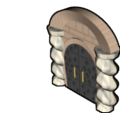
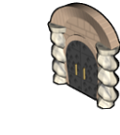
Nuevas imagenes para las puertas y panel publicitario

Changed region(s): [[0.375, 0.0, 1.0, 0.8296], [0.675, 0.5037, 0.725, 0.6222], [0.6, 0.4741, 0.65, 0.563]]

diff --git a/gg/GG/utils.py b/gg/GG/utils.py
@@ -65,8 +65,7 @@ ANIM_WALKING_TIME = int(TICK_DELAY*ANIM_WALKING_COUNT*100)
 TEXT_COLOR = {"black": 0, "blue": 1}
 
 # Player headings.
-HEADING = {0: "none", 1: "up", 2: "down", 3: "left", 4: "right",
-           5: "topleft", 6: "bottomright", 7: "bottomleft", 8: "topright"}
+HEADING = {0: None, 1: "up", 2: "down", 3: "left", 4: "right", 5: "topleft", 6: "bottomright", 7: "bottomleft", 8: "topright"}
 # Player states.
 STATE = {1: "standing", 2: "walking", 3: "standing_carrying", 4: "walking_carrying", 5: "standing_sleeping"}
 
@@ -259,36 +258,57 @@ RIVERS = ["rioCurvaDchDown.png","rioCurvaDchUp.png","rioCurvaIzqDown.png","rioCu
 
 DOOR_CORINTHIAN_UP = os.path.join(FURNITURE_PATH, "puertaCorintiaUp.png")
 DOOR_CORINTHIAN_LEFT = os.path.join(FURNITURE_PATH, "puertaCorintiaLeft.png")
+DOOR_CORINTHIAN_DOWN = os.path.join(FURNITURE_PATH, "puertaCorintiaDown.png")
+DOOR_CORINTHIAN_RIGHT = os.path.join(FURNITURE_PATH, "puertaCorintiaRight.png")
 
 DOOR_DORIC_UP = os.path.join(FURNITURE_PATH, "puertaDoricaUp.png")
 DOOR_DORIC_LEFT = os.path.join(FURNITURE_PATH, "puertaDoricaLeft.png")
+DOOR_DORIC_DOWN = os.path.join(FURNITURE_PATH, "puertaDoricaDown.png")
+DOOR_DORIC_RIGHT = os.path.join(FURNITURE_PATH, "puertaDoricaRight.png")
 
 DOOR_IONIAN_UP = os.path.join(FURNITURE_PATH, "puertaJonicaUp.png")
 DOOR_IONIAN_LEFT = os.path.join(FURNITURE_PATH, "puertaJonicaLeft.png")
+DOOR_IONIAN_DOWN = os.path.join(FURNITURE_PATH, "puertaJonicaDown.png")
+DOOR_IONIAN_RIGHT = os.path.join(FURNITURE_PATH, "puertaJonicaRight.png")
 
 DOOR_SALOMONIC_UP = os.path.join(FURNITURE_PATH, "puertaSalomonicaUp.png")
 DOOR_SALOMINIC_LEFT = os.path.join(FURNITURE_PATH, "puertaSalomonicaLeft.png")
+DOOR_SALOMINIC_DOWN = os.path.join(FURNITURE_PATH, "puertaSalomonicaDown.png")
+DOOR_SALOMINIC_RIGHT = os.path.join(FURNITURE_PATH, "puertaSalomonicaRight.png")
 
 DOOR_WALL_UP = os.path.join(FURNITURE_PATH, "puertaMuroUp.png")
 DOOR_WALL_LEFT = os.path.join(FURNITURE_PATH, "puertaMuroLeft.png")
+DOOR_WALL_DOWN = os.path.join(FURNITURE_PATH, "puertaMuroDown.png")
+DOOR_WALL_RIGHT = os.path.join(FURNITURE_PATH, "puertaMuroRight.png")
 
 DOOR_ROAD_UP = os.path.join(FURNITURE_PATH, "puertaCarreteraUp.png")
 DOOR_ROAD_LEFT = os.path.join(FURNITURE_PATH, "puertaCarreteraLeft.png")
+DOOR_ROAD_DOWN = os.path.join(FURNITURE_PATH, "puertaCarreteraDown.png")
+DOOR_ROAD_RIGHT = os.path.join(FURNITURE_PATH, "puertaCarreteraRight.png")
 
 DOOR_FENCE_UP = os.path.join(FURNITURE_PATH, "puertaVallaUp.png")
 DOOR_FENCE_LEFT = os.path.join(FURNITURE_PATH, "puertaVallaLeft.png")
+DOOR_FENCE_DOWN = os.path.join(FURNITURE_PATH, "puertaVallaDown.png")
+DOOR_FENCE_RIGHT = os.path.join(FURNITURE_PATH, "puertaVallaRight.png")
 
 DOOR_DOWN = os.path.join(FURNITURE_PATH, "downArrow.png")
 DOOR_UP = os.path.join(FURNITURE_PATH, "upArrow.png")
 DOOR_LEFT = os.path.join(FURNITURE_PATH, "leftArrow.png")
 DOOR_RIGHT = os.path.join(FURNITURE_PATH, "rightArrow.png")
 
-DOORS = ["puertaCorintiaUp.png","puertaCorintiaLeft.png","puertaDoricaUp.png","puertaDoricaLeft.png","puertaJonicaUp.png","puertaJonicaLeft.png","puertaSalomonicaUp.png","puertaSalomonicaLeft.png","puertaMuroUp.png","puertaMuroLeft.png","puertaCarreteraUp.png","puertaCarreteraLeft.png","downArrow.png","upArrow.png","leftArrow.png","rightArrow.png","puertaVallaUp.png","puertaVallaLeft.png"]
+DOORS = ["puertaCorintiaUp.png","puertaCorintiaLeft.png","puertaDoricaUp.png","puertaDoricaLeft.png","puertaJonicaUp.png","puertaJonicaLeft.png","puertaSalomonicaUp.png","puertaSalomonicaLeft.png","puertaMuroUp.png","puertaMuroLeft.png","puertaCarreteraUp.png","puertaCarreteraLeft.png","downArrow.png","upArrow.png","leftArrow.png","rightArrow.png","puertaVallaUp.png","puertaVallaLeft.png","puertaCorintiaDown.png","puertaCorintiaRight.png","puertaDoricaDown.png","puertaDoricaRight.png","puertaJonicaDown.png","puertaJonicaRight.png","puertaSalomonicaDown.png","puertaSalomonicaRight.png","puertaCarreteraDown.png","puertaCarreteraRight.png","puertaMuroDown.png","puertaMuroRight.png","puertaVallaDown.png","puertaVallaRight.png"]
 
+
+#=============== PANNELS ==================================================================
+
+PANNEL_UP = os.path.join(FURNITURE_PATH, "panelUp.png")
+PANNEL_LEFT = os.path.join(FURNITURE_PATH, "panelLeft.png")
+
+PANNELS = ["panelUp.png", "panelLeft.png"]
 
 #=============== WEBS ==================================================================
 
-WEBS = WALLS + DECORATORS + STACKS + KEYS + INVENTORYS + DOORS
+WEBS = WALLS + DECORATORS + STACKS + KEYS + INVENTORYS + DOORS + PANNELS
 
 #=============== RANDOMS ==================================================================
 

diff --git a/gg/GG/isoview/isoview_hud.py b/gg/GG/isoview/isoview_hud.py
@@ -129,6 +129,7 @@ class IsoViewHud(isoview.IsoView):
     self.__fullscreenButton = None
     self.__privateChatButton = None
     self.__buttonBarActions = None
+    self.windowAdminActions = None
     model.subscribeEvent('chatAdded', self.chatAdded)
     subscriptionList = []
     subscriptionList.append(['quizAdded', self.quizAdded])
@@ -250,8 +251,6 @@ class IsoViewHud(isoview.IsoView):
         else:  
           if event.key == K_LCTRL or event.key == K_RCTRL:
             self.__ctrl = True 
-          if event.key == K_ESCAPE:
-            GG.genteguada.GenteGuada.getInstance().finish()
           elif event.key == K_RETURN:
             self.__processEnterKey()
       elif event_type == MOUSEBUTTONDOWN:
@@ -290,7 +289,7 @@ class IsoViewHud(isoview.IsoView):
         if not self.__createItemsWindow.isInside([cordX, cordY]):  
           self.__createItemsWindow.setNewPosition(dest)    
       if self.__adminMenu and "Posicion" in self.editableFields.keys():
-        if not self.buttonBarAdminActions.isInside([cordX, cordY]):
+        if not guiobjects.isInside(self.windowAdminActions, [cordX, cordY]):
           self.editableFields["Posicion"][0].text = str(dest[0])
           self.editableFields["Posicion"][1].text = str(dest[1])
   
@@ -931,8 +930,12 @@ class IsoViewHud(isoview.IsoView):
     actions = adminActions
     if not actions:
       return
+    self.windowAdminActions = ocempgui.widgets.Window("Edición de objetos".decode("utf-8"))
+    self.windowAdminActions.topleft = [GG.utils.SCREEN_SZ[0] - 151, 1]
+    self.windowAdminActions.zOrder = 15000
     YShift = 50
-    self.buttonBarAdminActions = guiobjects.OcempPanel(150, 427, [GG.utils.SCREEN_SZ[0] - 151, 1], GG.utils.ADMIN_ACTIONS_LARGE_BACKGROUND)
+    self.buttonBarAdminActions = guiobjects.OcempPanel(150, 427, [0, 0], GG.utils.ADMIN_ACTIONS_LARGE_BACKGROUND)
+    self.windowAdminActions.child = self.buttonBarAdminActions
     filePath =  GG.genteguada.GenteGuada.getInstance().getDataPath(itemImageLabel)
     guiobjects.generateImageSize(filePath, [23,23], TOOLBAR_IMAGE)
     img = guiobjects.OcempImageButtonTransparent(TOOLBAR_IMAGE)
@@ -988,9 +991,8 @@ class IsoViewHud(isoview.IsoView):
     self.buttonBarAdminActions.add_child(okButton)
     cancelButton = guiobjects.createButton(GG.utils.TINY_CANCEL_IMAGE, [80, 35 + buttonsHeight], ["Descartar cambios", self.showTooltip, self.removeTooltip], self.discardChanges)
     self.buttonBarAdminActions.add_child(cancelButton)
-    self.buttonBarAdminActions.zOrder = 10000
-    self.addSprite(self.buttonBarAdminActions)
-    self.widgetContainer.add_widget(self.buttonBarAdminActions)
+    self.addSprite(self.windowAdminActions)
+    self.widgetContainer.add_widget(self.windowAdminActions)
     self.__adminMenu = True
   
   def itemSelectedByUser(self, itemName, itemImageLabel, options):
@@ -1310,8 +1312,9 @@ class IsoViewHud(isoview.IsoView):
     for child in self.buttonBarAdminActions.children:
       self.buttonBarAdminActions.remove_child(child)
       child.destroy()
-    self.widgetContainer.remove_widget(self.buttonBarAdminActions)
-    self.buttonBarAdminActions.destroy()
+    self.widgetContainer.remove_widget(self.windowAdminActions)
+    self.windowAdminActions.destroy()
+    self.windowAdminActions = None
     self.__adminMenu = False
 
   def itemToInventory(self):

diff --git a/gg/GG/model/ggsession.py b/gg/GG/model/ggsession.py
@@ -170,7 +170,8 @@ class GGSession(ggmodel.GGModel):
       "Andatuz hablador": {"position": pos, "label": "", "message": "", "images": GG.utils.PENGUINS_TALKERS },
       "Andatuz cambiador": { "position": pos, "label": "", "gift": "", "message": "", "images": GG.utils.PENGUINS_GIVERS },
       "Regalos":{ "position": pos, "label": "", "imagesGift": self.getImagesGift()},
-      "Posicion aleatoria":{ "position": pos, "label": "", "images": GG.utils.RANDOMS }
+      "Posicion aleatoria":{ "position": pos, "label": "", "images": GG.utils.RANDOMS},
+      "Panel publicitario":{ "position": pos, "images": GG.utils.PANNELS}
     }
     return self.objectsDict
     
@@ -254,6 +255,8 @@ class GGSession(ggmodel.GGModel):
         object = room_item.GGRiver(images)
       elif objectLabel == "Dinero":
         object = pickable_item.PaperMoney(images)
+      elif objectLabel == "Panel publicitario":
+        object = web_item.GGWebItem(images, "http://www.opensourceworldconference.com", "Panel conferencia")
       room.addItemFromVoid(object, position)
 
   def __createObjectImagesPositionLabel(self, data, room, objectLabel):
@@ -363,7 +366,7 @@ class GGSession(ggmodel.GGModel):
     data: object data.
     """  
     room = self.__player.getRoom()
-    if name in ["Muros", "Decorativos", "Rios", "Dinero", "Costa"]:
+    if name in ["Muros", "Decorativos", "Rios", "Dinero", "Costa", "Panel publicitario"]:
       self.__createObjectImagesPosition(data, room, name)
     elif name in ["Apilables","Llaves","Inventario","Posicion aleatoria"]:
       self.__createObjectImagesPositionLabel(data, room, name)

diff --git a/gg/GG/isoview/guiobjects.py b/gg/GG/isoview/guiobjects.py
@@ -888,12 +888,11 @@ def loadSprite(imageName, loadRect, topleft=None, zOrder=None):
     image.zOrder = 0    
   return image  
     
-
 def getOffset(imageFile):
   im = Image.open(imageFile)
   sizeImage = im.size
   if sizeImage[0] > GG.utils.TILE_SZ[0]:
-    offsetX = GG.utils.FLOOR_SHIFT[0] - ((sizeImage[0] - GG.utils.TILE_SZ[0]) / 2)
+    offsetX = GG.utils.FLOOR_SHIFT[0] + ((sizeImage[0] - GG.utils.TILE_SZ[0]) / 2)
   else:
     offsetX = GG.utils.FLOOR_SHIFT[0]
   if sizeImage[1] > GG.utils.TILE_SZ[1]:
@@ -902,7 +901,6 @@ def getOffset(imageFile):
     offsetY = GG.utils.FLOOR_SHIFT[1]
   return [offsetX, offsetY]
 
-
 def getTopOffset(anchor ,imageFile):
   try:
     yTopOffset = GG.utils.STACKS_TOPANCHOR[os.path.split(imageFile)[-1]]
@@ -910,3 +908,10 @@ def getTopOffset(anchor ,imageFile):
     yTopOffset = 0
   yTopAnchor = GG.utils.TILE_SZ[1] + anchor[1] + yTopOffset
   return [0,yTopAnchor]
+
+def isInside(window, pos):
+  if (window.topleft[0] <= pos[0] <= (window.topleft[0] + window.width)): 
+    if (window.topleft[1] <= pos[1] <= (window.topleft[1] + window.height)):
+      return True
+  return False
+

diff --git a/gg/GG/genteguada.py b/gg/GG/genteguada.py
@@ -25,6 +25,7 @@ UPLOAD_MASK = os.path.join(GG.utils.PATH_PHOTO_MASK,"imgUpload.png")
 ERROR_CONNECTION = "No hay conexion con el servidor"
 FPS = 30
 ICON = os.path.join("icons", "icon64.png") 
+IMG_ERROR = os.path.join(GG.utils.LOCAL_DATA_PATH, "error", "error.png")
 
 class GenteGuada:
   """ GenteGuada class.
@@ -201,9 +202,12 @@ class GenteGuada:
       pathFile = os.path.join(GG.utils.LOCAL_DATA_PATH, newImgName)
       if not os.path.isfile(pathFile):
         imgData = self.__system.getResource(img) 
-        imgFile = open(os.path.join(GG.utils.LOCAL_DATA_PATH, newImgName), "wb")
-        imgFile.write(imgData)
-        imgFile.close()
+        if imgData:
+          imgFile = open(os.path.join(GG.utils.LOCAL_DATA_PATH, newImgName), "wb")
+          imgFile.write(imgData)
+          imgFile.close()
+        else:
+          return IMG_ERROR
       return os.path.join(GG.utils.LOCAL_DATA_PATH, newImgName)
 
   def getListDataPath(self, imgList):

diff --git a/gg/GG/model/ggsystem.py b/gg/GG/model/ggsystem.py
@@ -95,7 +95,7 @@ class GGSystem(dMVC.model.Model):
     user: user name.
     passwd: user password.
     """  
-    #return "A"
+    return "A"
     #return True
     params = urllib.urlencode({"usuario": user, "password": passwd})  
     guadalinexLogin = urllib2.urlopen("http://www.guadalinex.org/usrdata?" +params)  
@@ -215,9 +215,12 @@ class GGSystem(dMVC.model.Model):
     img: resource path.
     date: current date.
     """
-    imgFile = open(os.path.join(GG.utils.DATA_PATH, img), "rb")
-    imgData = imgFile.read()
-    imgFile.close()
+    try:
+      imgFile = open(os.path.join(GG.utils.DATA_PATH, img), "rb")
+      imgData = imgFile.read()
+      imgFile.close()
+    except:
+      imgData = None
     return imgData
 
   def uploadFile(self, fileName, fileData, dirDest = None):

diff --git a/gg/GG/model/player.py b/gg/GG/model/player.py
@@ -593,6 +593,7 @@ class GGPlayer(item_with_inventory.GGItemWithInventory):
     if dest == None or self.getRoom().getTile(dest).getDepth():
       self.newChatMessage("No puedo saltar allí", 1)
       return
+    self.setUnselectedItem()
     self.setHeading(heading)
     self.setDestination(dest)
     self.setPosition(dest, 1)
